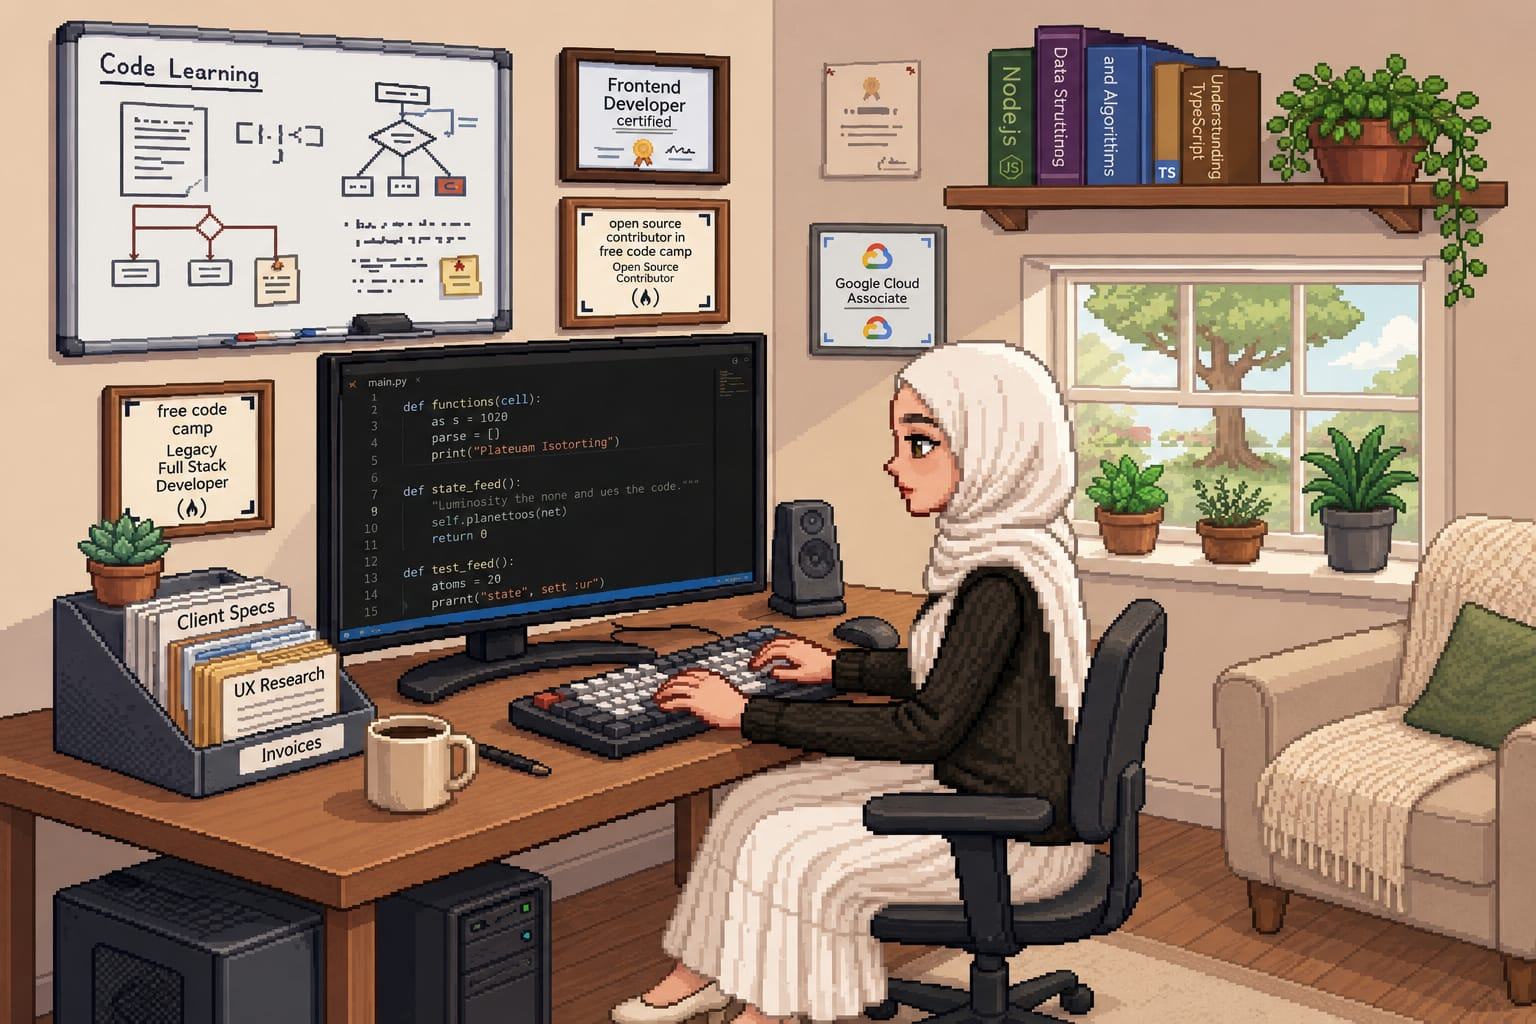
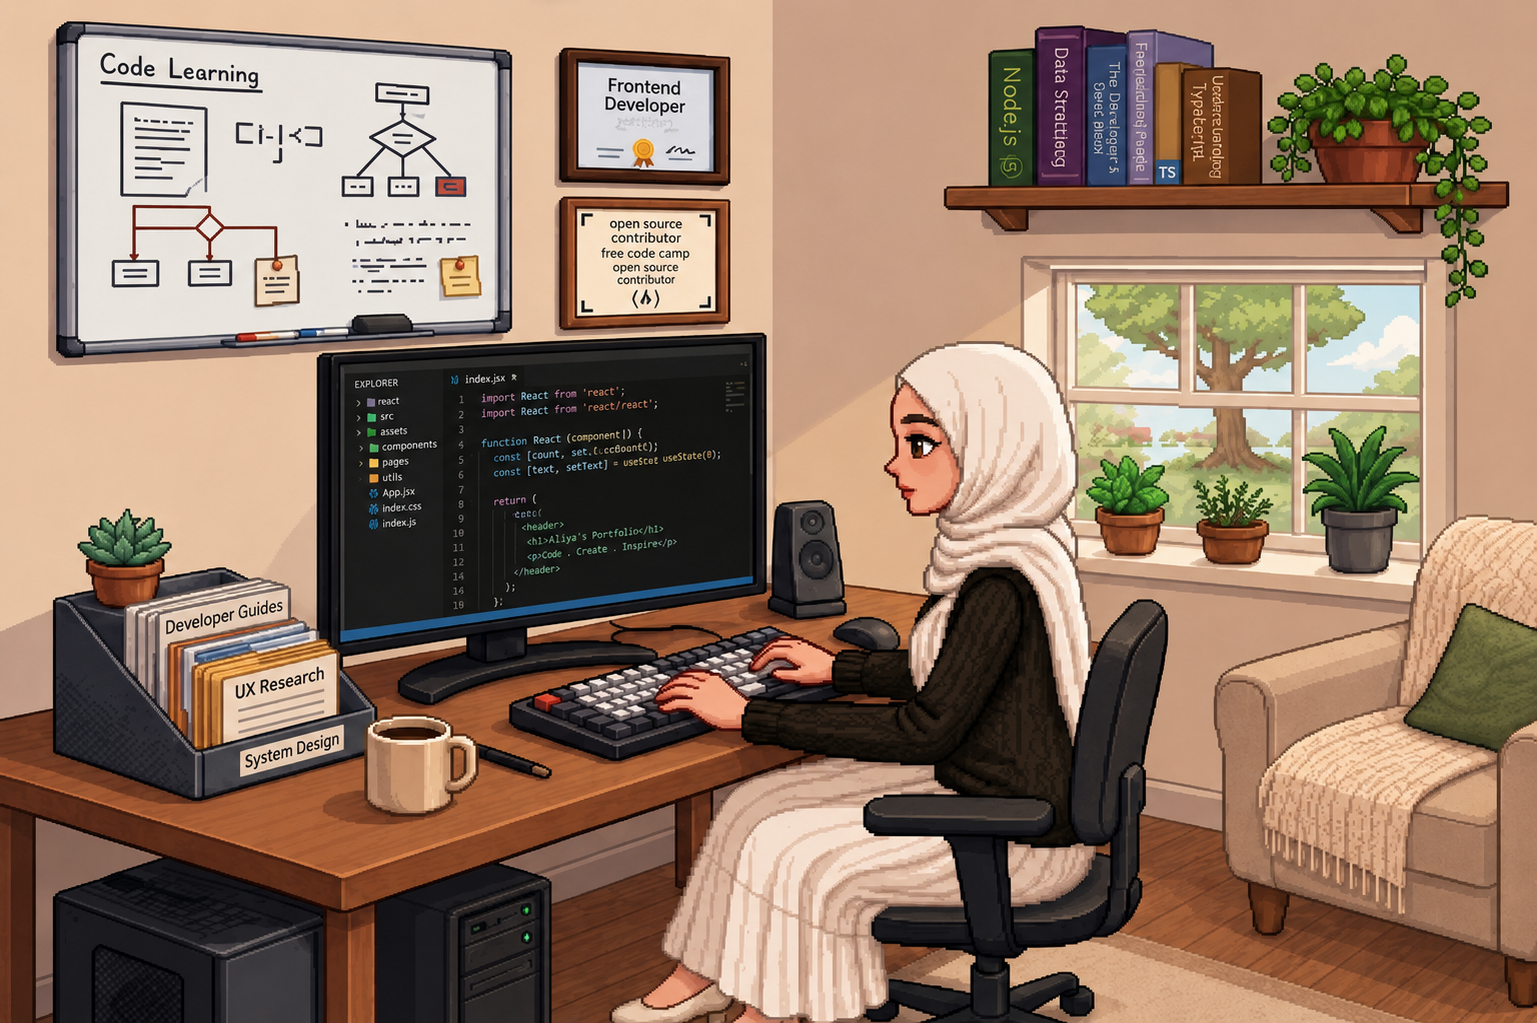
feat: add smooth scrolling to About section using useRef

diff --git a/src/Components/Navbar.jsx b/src/Components/Navbar.jsx
@@ -1,6 +1,6 @@
-const Navbar = () => {
+const Navbar = ({ aboutRef }) => {
   return (
-    <div className="flex items-start justify-between px-10 mt-10">
+    <div className=" sticky flex items-start justify-between px-10 mt-10">
       <h1 className="text-3xl">
         Aliya's <i class="fa-solid fa-code"></i> <br /> Portfolio
       </h1>
@@ -8,22 +8,38 @@ const Navbar = () => {
       <div className="tabs tabs-lift">
         <label className="tab text-2xl mr-4">
           <input type="radio" name="my_tabs_4" />
-          About
+          <div
+            className="lg:tooltip"
+            data-tip="About Me"
+            onClick={() =>
+              aboutRef.current?.scrollIntoView({
+                behavior: "smooth",
+              })
+            }
+          >
+            <i class="fa-regular fa-user"></i>
+          </div>
         </label>
 
         <label className="tab text-2xl mr-4">
           <input type="radio" name="my_tabs_4" />
-          Skills
+          <div className="lg:tooltip" data-tip="Skills">
+            <i class="fa-brands fa-codepen"></i>
+          </div>
         </label>
 
         <label className="tab text-2xl mr-4">
           <input type="radio" name="my_tabs_4" />
-          Projects
+          <div className="lg:tooltip" data-tip="Projects">
+            <i class="fa-solid fa-diagram-project"></i>
+          </div>
         </label>
 
         <label className="tab text-2xl mr-4">
           <input type="radio" name="my_tabs_4" />
-          Contact
+          <div className="lg:tooltip" data-tip="Contact">
+            <i class="fa-sharp fa-solid fa-at"></i>
+          </div>
         </label>
       </div>
     </div>

diff --git a/src/Components/Skills.jsx b/src/Components/Skills.jsx
@@ -1,0 +1,23 @@
+
+
+const Skills = () => {
+  return (
+    <section id="skills">
+        <div className="flex min-h-0 flex-col gap-y-4">
+            <h2 className="text-xl font-bold">Skills</h2>
+          <div className="flex flex-wrap gap-2">
+            {/* {DATA.skills.map((skill, id) => (
+              <BlurFade key={skill.name} delay={BLUR_FADE_DELAY * 10 + id * 0.05}>
+                <div className="border bg-background border-border ring-2 ring-border/20 rounded-xl h-8 w-fit px-4 flex items-center gap-2">
+                  {skill.icon && <skill.icon className="size-4 rounded overflow-hidden object-contain" />}
+                  <span className="text-foreground text-sm font-medium">{skill.name}</span>
+                </div>
+              </BlurFade>
+            ))} */}
+          </div>
+        </div>
+      </section>
+  )
+}
+
+export default Skills

diff --git a/src/Components/About.jsx b/src/Components/About.jsx
@@ -1,7 +1,7 @@
 import Developer from "../assets/meet-the-developer.png";
 import workspace from "../assets/Workspace.png";
 
-const About = () => {
+const About = ({ aboutRef }) => {
   return (
     <div className="min-h-screen">
       {/* Background / Workspace Section */}
@@ -14,7 +14,7 @@ const About = () => {
       </section>
 
       {/* About Section */}
-      <div className="hero">
+      <div ref={aboutRef} className="hero">
         <div className="hero-content flex-col lg:flex-row gap-10">
           <img
             src={Developer}

diff --git a/src/App.jsx b/src/App.jsx
@@ -1,14 +1,17 @@
+import { useRef } from "react";
 import Navbar from './Components/Navbar'
 import About from './Components/About'
+import Skills from './Components/Skills'
 import './index.css'
 
 function App() {
-  
+  const aboutRef = useRef(null);
 
   return (
     <>
-      <Navbar />
-      <About />
+      <Navbar aboutRef={aboutRef} />
+      <About aboutRef={aboutRef} />
+      <Skills />
     </>
   )
 }
